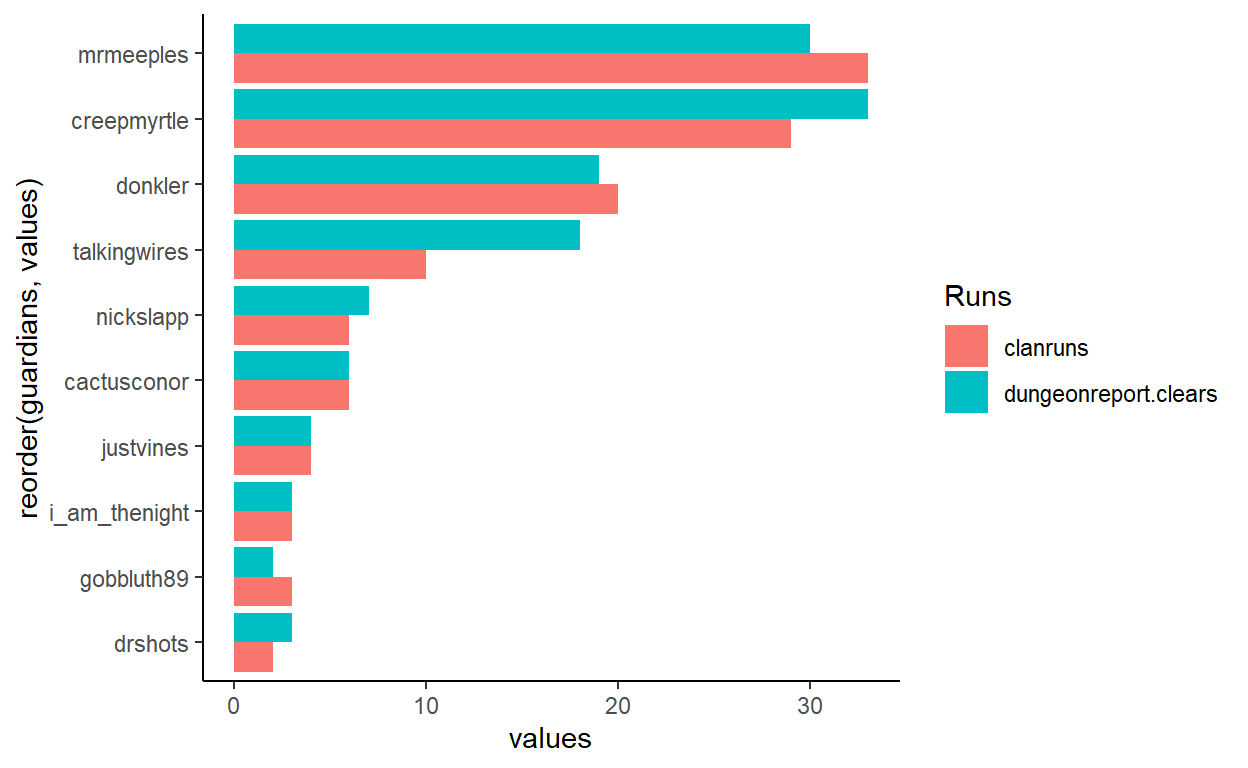
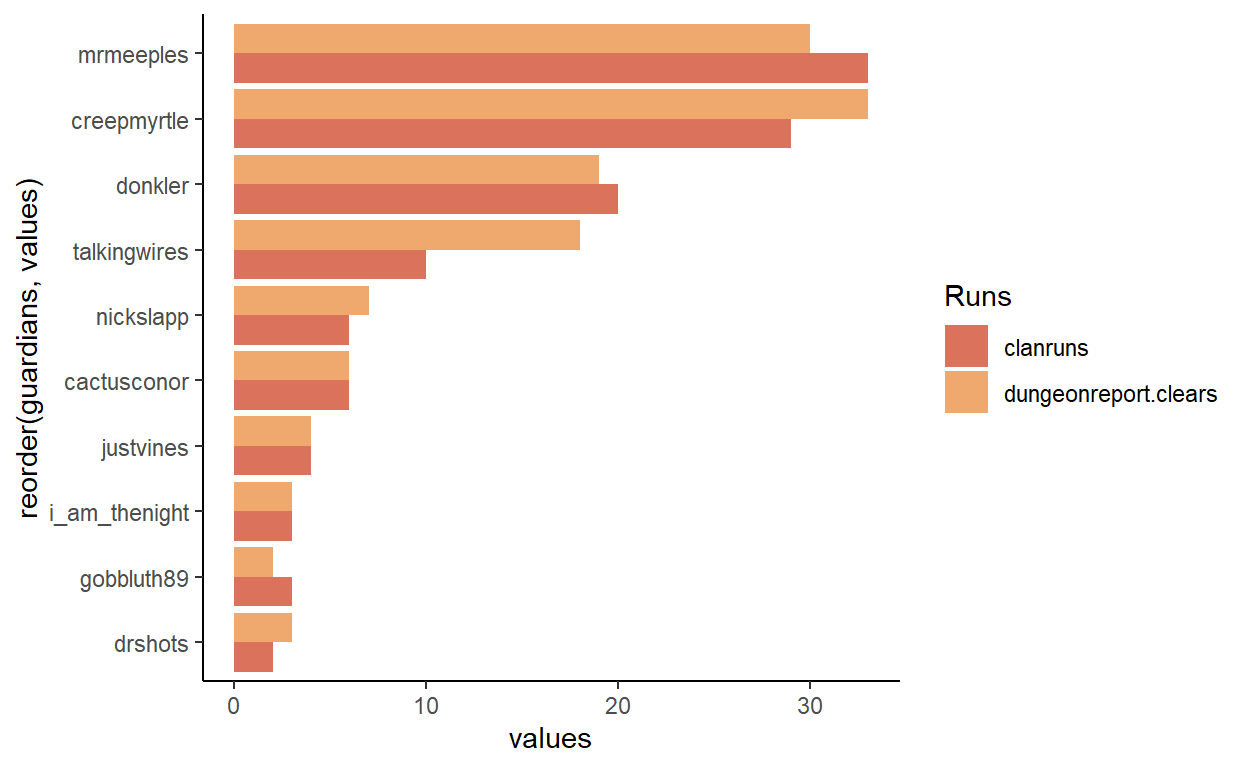
styling changes

Changed region(s): [[0.1875, 0.0312, 0.7188, 0.875], [0.75, 0.4062, 0.8125, 0.5625]]

diff --git a/docs/data.html b/docs/data.html
@@ -2419,6 +2419,9 @@ code span.wa { color: #5e5e5e; font-style: italic; } /* Warning */
 <span class='kw'><a href='https://rdrr.io/r/base/library.html'>library</a></span><span class='op'>(</span><span class='va'><a href='https://ggplot2.tidyverse.org'>ggplot2</a></span><span class='op'>)</span>
 <span class='kw'><a href='https://rdrr.io/r/base/library.html'>library</a></span><span class='op'>(</span><span class='va'><a href='https://github.com/rstudio/DT'>DT</a></span><span class='op'>)</span>
 <span class='kw'><a href='https://rdrr.io/r/base/library.html'>library</a></span><span class='op'>(</span><span class='va'><a href='https://lubridate.tidyverse.org'>lubridate</a></span><span class='op'>)</span>
+<span class='kw'><a href='https://rdrr.io/r/base/library.html'>library</a></span><span class='op'>(</span><span class='va'>ggthemr</span><span class='op'>)</span>
+
+<span class='fu'><a href='https://rdrr.io/pkg/ggthemr/man/ggthemr.html'>ggthemr</a></span><span class='op'>(</span>palette<span class='op'>=</span><span class='st'>'dust'</span>,set_theme<span class='op'>=</span><span class='cn'>TRUE</span><span class='op'>)</span>
 </code></pre>
 </div>
 </div>
